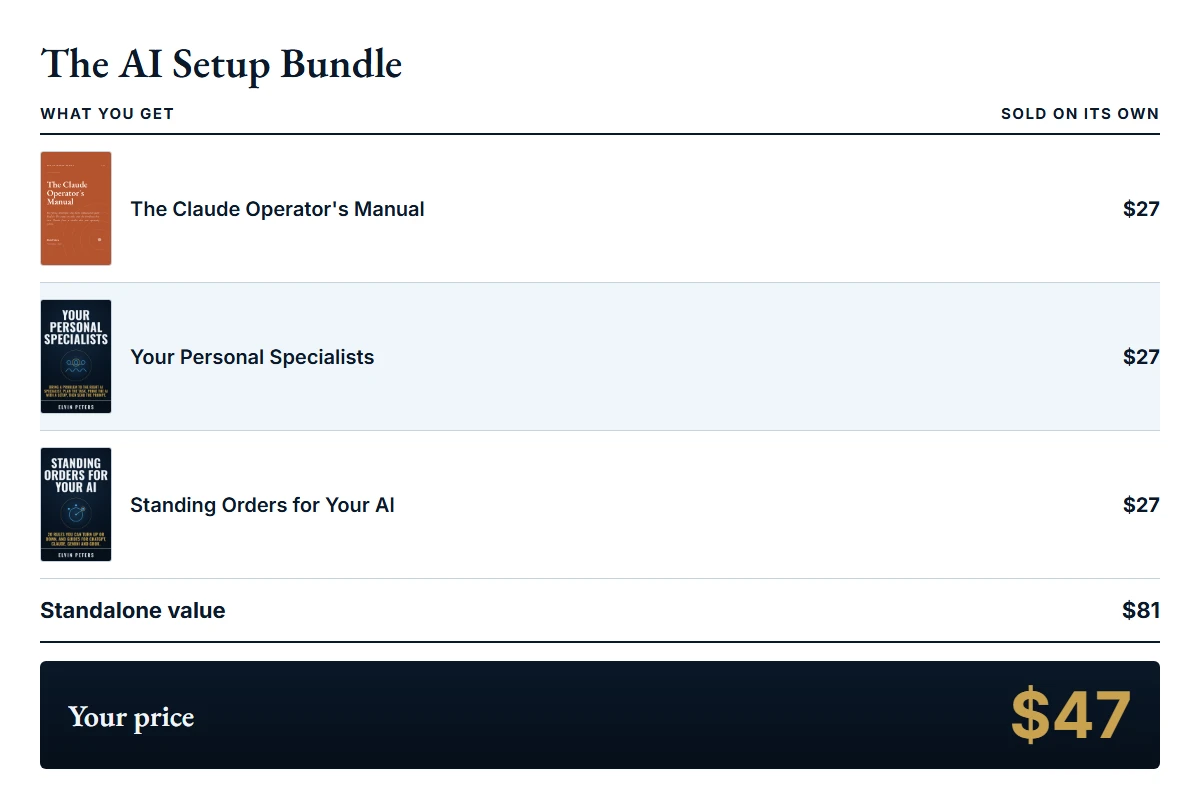
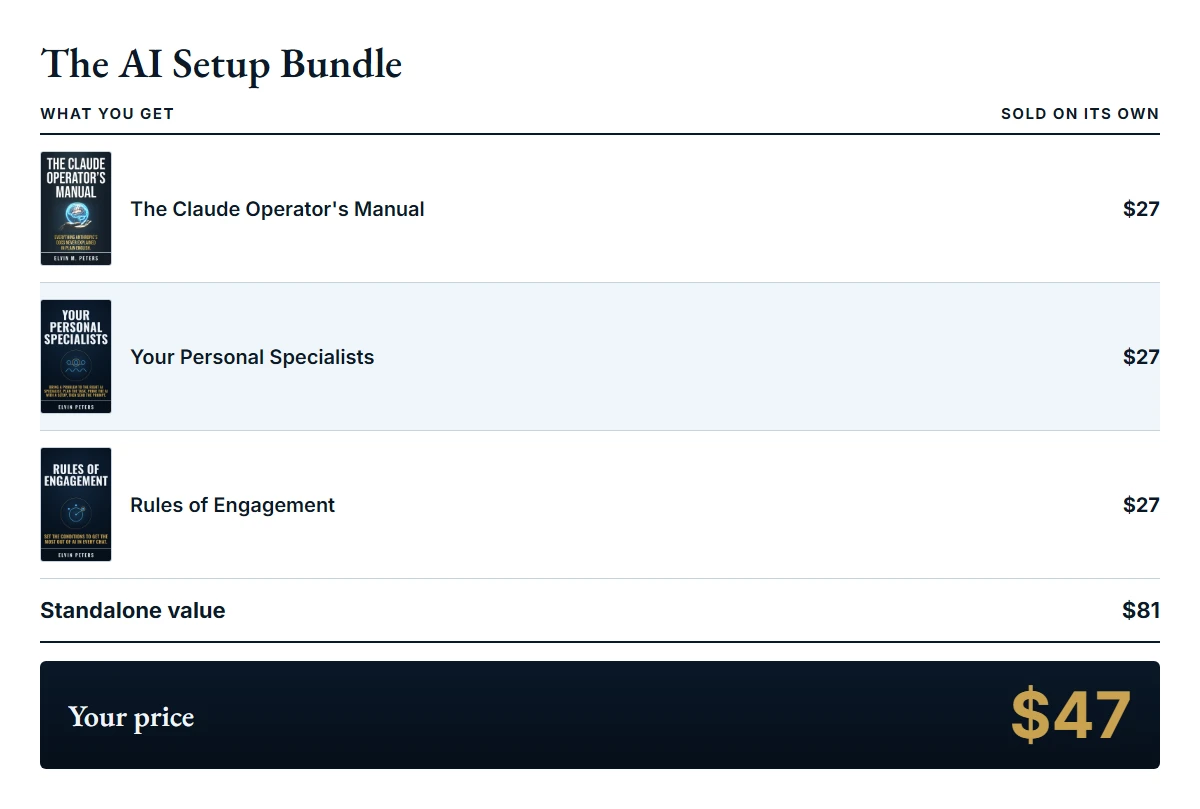
Re-rendered stack pictures (the AI Setup Bundle now lists Rules of Engagement), width and height from the files, Rule 1 sample under its new name, stale pictures archived

diff --git a/book/operator-bundle/index.html b/book/operator-bundle/index.html
@@ -111,8 +111,8 @@ a=t.getElementsByTagName(n)[0],a.parentNode.insertBefore(u,a))}(window,document,
     <p class="lp-lede">The AI Setup Bundle: 14 ready-made Specialists, your rules in every chat, and the full 217-page Claude guide, together for $47.</p>
     <figure class="lp-image lp-offer__stack">
       <picture>
-        <source media="(max-width: 767px)" srcset="/img/store/stack-ai-setup-bundle-47-phone.webp" />
-        <img src="/img/store/stack-ai-setup-bundle-47-desktop.webp" alt="What you get for $47: The Claude Operator's Manual ($27), Your Personal Specialists ($27) and Rules of Engagement ($27). Standalone value $81. Your price: $47." loading="lazy" decoding="async" />
+        <source media="(max-width: 767px)" srcset="/img/store/stack-ai-setup-bundle-47-phone.webp" width="750" height="1268" />
+        <img src="/img/store/stack-ai-setup-bundle-47-desktop.webp" alt="What you get for $47: The Claude Operator's Manual ($27), Your Personal Specialists ($27) and Rules of Engagement ($27). Standalone value $81. Your price: $47." width="1200" height="809" loading="lazy" decoding="async" />
       </picture>
     </figure>
     <p class="lp-price"><strong data-store="price">$47</strong></p>
@@ -121,7 +121,7 @@ a=t.getElementsByTagName(n)[0],a.parentNode.insertBefore(u,a))}(window,document,
     <p class="lp-note lp-yes-note">Charges the card you just used, no re-entry. 30-day money-back guarantee.</p>
     <button type="button" class="lp-no" data-store-decline>No thanks, I’ll skip this</button>
     <div class="lp-fallback" data-store-fallback hidden><p>Pay with another card</p></div>
-    <div class="lp-body"><p>This bundle is for people who use AI at work. It gives you three pieces: a guide to setting Claude up so you stop re-explaining yourself in every chat, a set of 14 Specialists with 231 prompts to start from, and a set of rules you load once so your AI follows them.</p><h3>The Claude Operator’s Manual</h3><p>I wrote this Manual for Claude users who want to run Claude well. It is a 217-page PDF about Claude only.</p><ul><li><strong>Set up Claude in the app.</strong> Start with the day-one setup checklist in the appendices. The first half covers talking to Claude well, setting up Projects and knowledge files, Skills, and connecting Claude to the tools your work lives in, and they need no terminal.</li><li><strong>Go further with Claude Code.</strong> The Claude Code chapters are optional, and they are the only ones that ask you to open a terminal.</li><li><strong>Copy complete workflows.</strong> The last part puts the setup together into workflows you can reuse.</li><li><strong>Check your work.</strong> Every chapter ends with a checklist.</li></ul><h3>Your Personal Specialists</h3><p>A Specialist is a setup message you paste into your AI, plus prompts for the problems in its area. Bring a problem to the right Specialist and paste your prompt. This is a 72-page PDF with 14 Specialists and 231 prompts, with brackets for your own details. Set each Specialist up once in the AI you already use: the guide shows how to set each one up in ChatGPT, Claude, Gemini or Grok. The 14 Specialists are Marketing, Sales, Finance, Operations, HR, Customer Service, Content, Data, Project Management, Executive Assistant, Product, Legal and Compliance, Small Business, and Freelancer and Consultant.</p><h3>Rules of Engagement</h3><p>A set of 20 rules you load into your AI once, so it follows them in every chat. Each rule can be switched on or off, and you can set the strength to Light, Standard or Full. For example, rule 1 is “Never make things up.” At Light, your AI says so when it isn’t sure a fact is right. At Full, it gives no fact without a source you can check. A guide shows how to load the rules into ChatGPT, Claude, Gemini and Grok, and another shows how to edit them.</p><figure class="lp-image"><img src="/img/store/standing-orders-rule1-sample.webp" alt="Rule 1 of Rules of Engagement, switched on: Never make things up. Light: if you aren’t sure a fact is right, say so. Standard: say where each fact, number, name and quote came from; if you can’t, mark it unverified or leave it out. Full: give me no fact without a source I can check; when you have a gap, ask me or tell me what is missing, and don’t fill it with a guess." loading="lazy" decoding="async" /></figure><p>Prices are in US dollars.</p></div>
+    <div class="lp-body"><p>This bundle is for people who use AI at work. It gives you three pieces: a guide to setting Claude up so you stop re-explaining yourself in every chat, a set of 14 Specialists with 231 prompts to start from, and a set of rules you load once so your AI follows them.</p><h3>The Claude Operator’s Manual</h3><p>I wrote this Manual for Claude users who want to run Claude well. It is a 217-page PDF about Claude only.</p><ul><li><strong>Set up Claude in the app.</strong> Start with the day-one setup checklist in the appendices. The first half covers talking to Claude well, setting up Projects and knowledge files, Skills, and connecting Claude to the tools your work lives in, and they need no terminal.</li><li><strong>Go further with Claude Code.</strong> The Claude Code chapters are optional, and they are the only ones that ask you to open a terminal.</li><li><strong>Copy complete workflows.</strong> The last part puts the setup together into workflows you can reuse.</li><li><strong>Check your work.</strong> Every chapter ends with a checklist.</li></ul><h3>Your Personal Specialists</h3><p>A Specialist is a setup message you paste into your AI, plus prompts for the problems in its area. Bring a problem to the right Specialist and paste your prompt. This is a 72-page PDF with 14 Specialists and 231 prompts, with brackets for your own details. Set each Specialist up once in the AI you already use: the guide shows how to set each one up in ChatGPT, Claude, Gemini or Grok. The 14 Specialists are Marketing, Sales, Finance, Operations, HR, Customer Service, Content, Data, Project Management, Executive Assistant, Product, Legal and Compliance, Small Business, and Freelancer and Consultant.</p><h3>Rules of Engagement</h3><p>A set of 20 rules you load into your AI once, so it follows them in every chat. Each rule can be switched on or off, and you can set the strength to Light, Standard or Full. For example, rule 1 is “Never make things up.” At Light, your AI says so when it isn’t sure a fact is right. At Full, it gives no fact without a source you can check. A guide shows how to load the rules into ChatGPT, Claude, Gemini and Grok, and another shows how to edit them.</p><figure class="lp-image"><img src="/img/store/rules-of-engagement-rule1-sample.webp" alt="Rule 1 of Rules of Engagement, switched on: Never make things up. Light: if you aren’t sure a fact is right, say so. Standard: say where each fact, number, name and quote came from; if you can’t, mark it unverified or leave it out. Full: give me no fact without a source I can check; when you have a gap, ask me or tell me what is missing, and don’t fill it with a guess." loading="lazy" decoding="async" /></figure><p>Prices are in US dollars.</p></div>
     <p class="lp-note">Digital downloads, for your own use. You get an instant download plus an email. A 30-day money-back guarantee covers this purchase too: email elvin@elvinpeters.com within 30 days for a full refund.</p>
     <div class="lp-small"><p>Where a detail changes from one release to the next, the Manual explains the idea and points you to the official documentation for the current specifics.</p><p>The Claude Operator’s Manual is an independent guide. It is not affiliated with, endorsed by or sponsored by Anthropic. Claude is a product of Anthropic, and the name is used only to say what the guide covers.</p><p>Elvin Peters</p></div>
   </div>

diff --git a/sections/lp-offer/section.html b/sections/lp-offer/section.html
@@ -15,9 +15,9 @@
     <figure class="lp-image lp-offer__stack">
       <picture>
 {{#stack_phone}}
-        <source media="(max-width: 767px)" srcset="{{stack_phone}}" />
+        <source media="(max-width: 767px)" srcset="{{stack_phone}}"{{#stack_phone_w}} width="{{stack_phone_w}}" height="{{stack_phone_h}}"{{/stack_phone_w}} />
 {{/stack_phone}}
-        <img src="{{stack_desktop}}" alt="{{stack_alt}}" loading="lazy" decoding="async" />
+        <img src="{{stack_desktop}}" alt="{{stack_alt}}"{{#stack_w}} width="{{stack_w}}" height="{{stack_h}}"{{/stack_w}} loading="lazy" decoding="async" />
       </picture>
     </figure>
 {{/stack_desktop}}
@@ -44,9 +44,9 @@
     <figure class="lp-image lp-offer__stack">
       <picture>
 {{#stack_phone}}
-        <source media="(max-width: 767px)" srcset="{{stack_phone}}" />
+        <source media="(max-width: 767px)" srcset="{{stack_phone}}"{{#stack_phone_w}} width="{{stack_phone_w}}" height="{{stack_phone_h}}"{{/stack_phone_w}} />
 {{/stack_phone}}
-        <img src="{{stack_desktop}}" alt="{{stack_alt}}" loading="lazy" decoding="async" />
+        <img src="{{stack_desktop}}" alt="{{stack_alt}}"{{#stack_w}} width="{{stack_w}}" height="{{stack_h}}"{{/stack_w}} loading="lazy" decoding="async" />
       </picture>
     </figure>
 {{/stack_desktop}}
